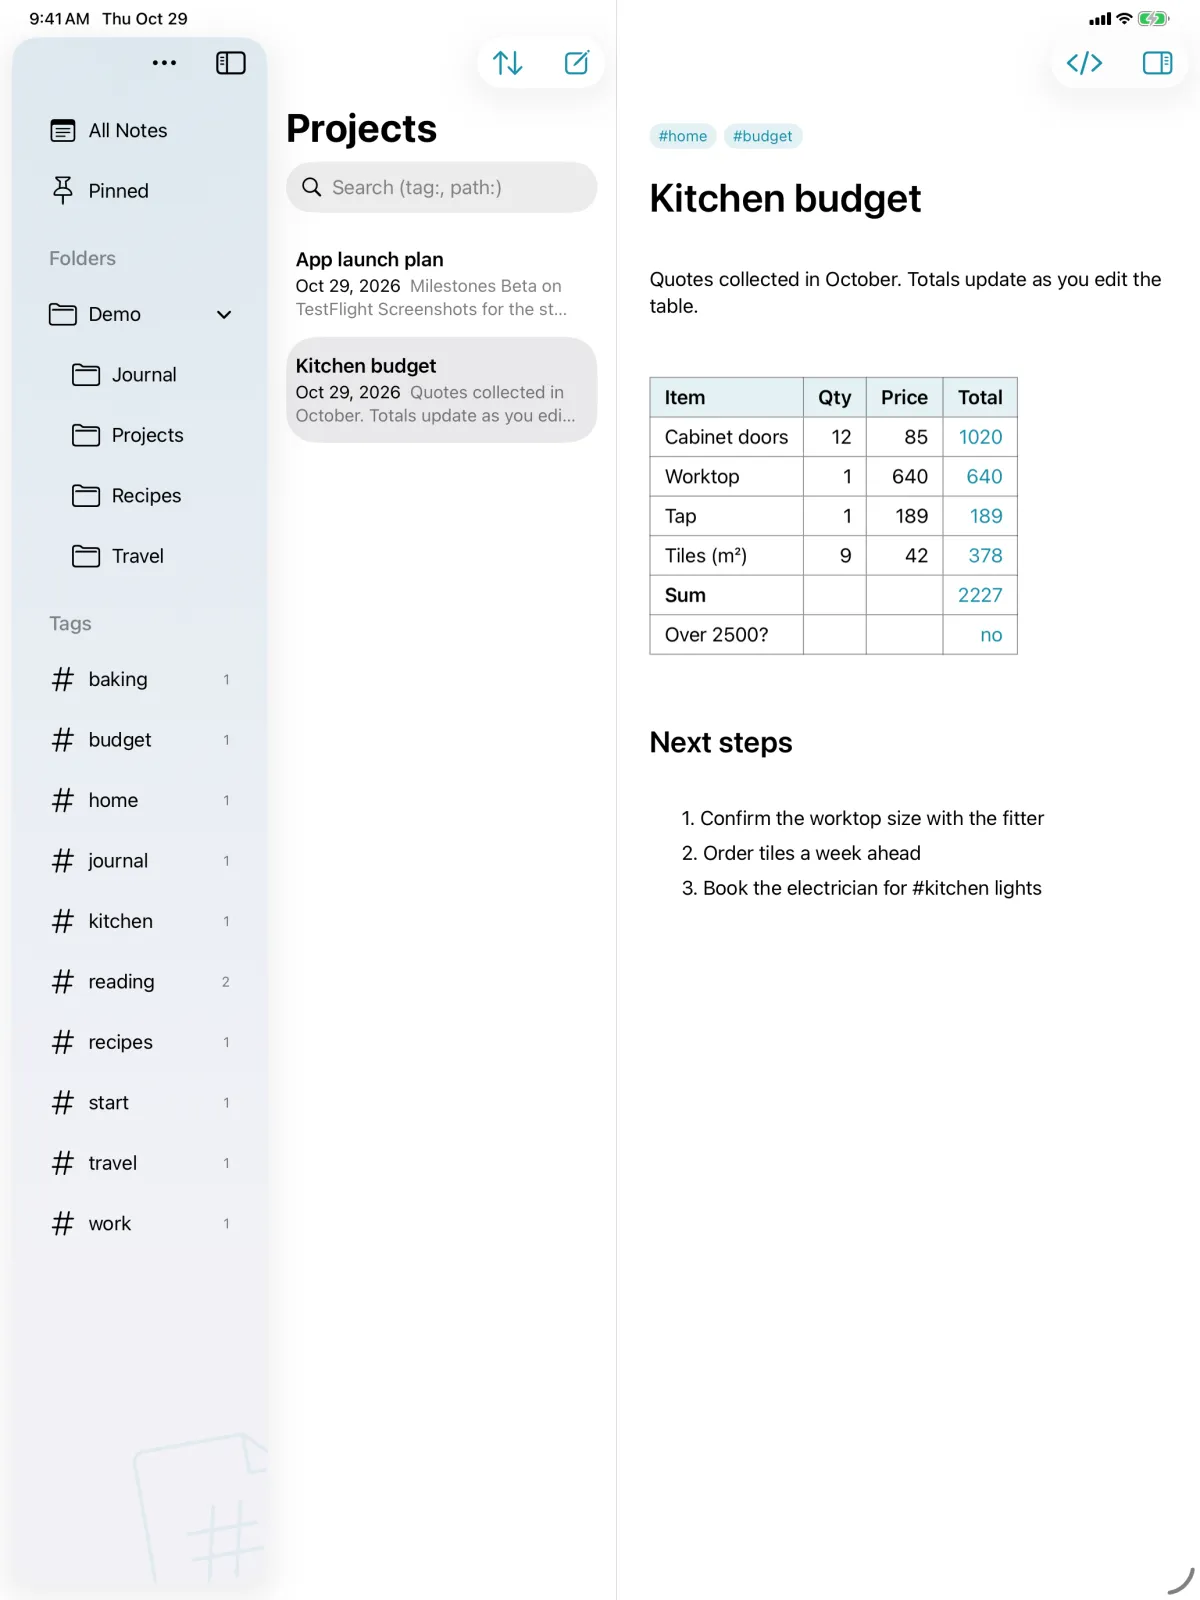
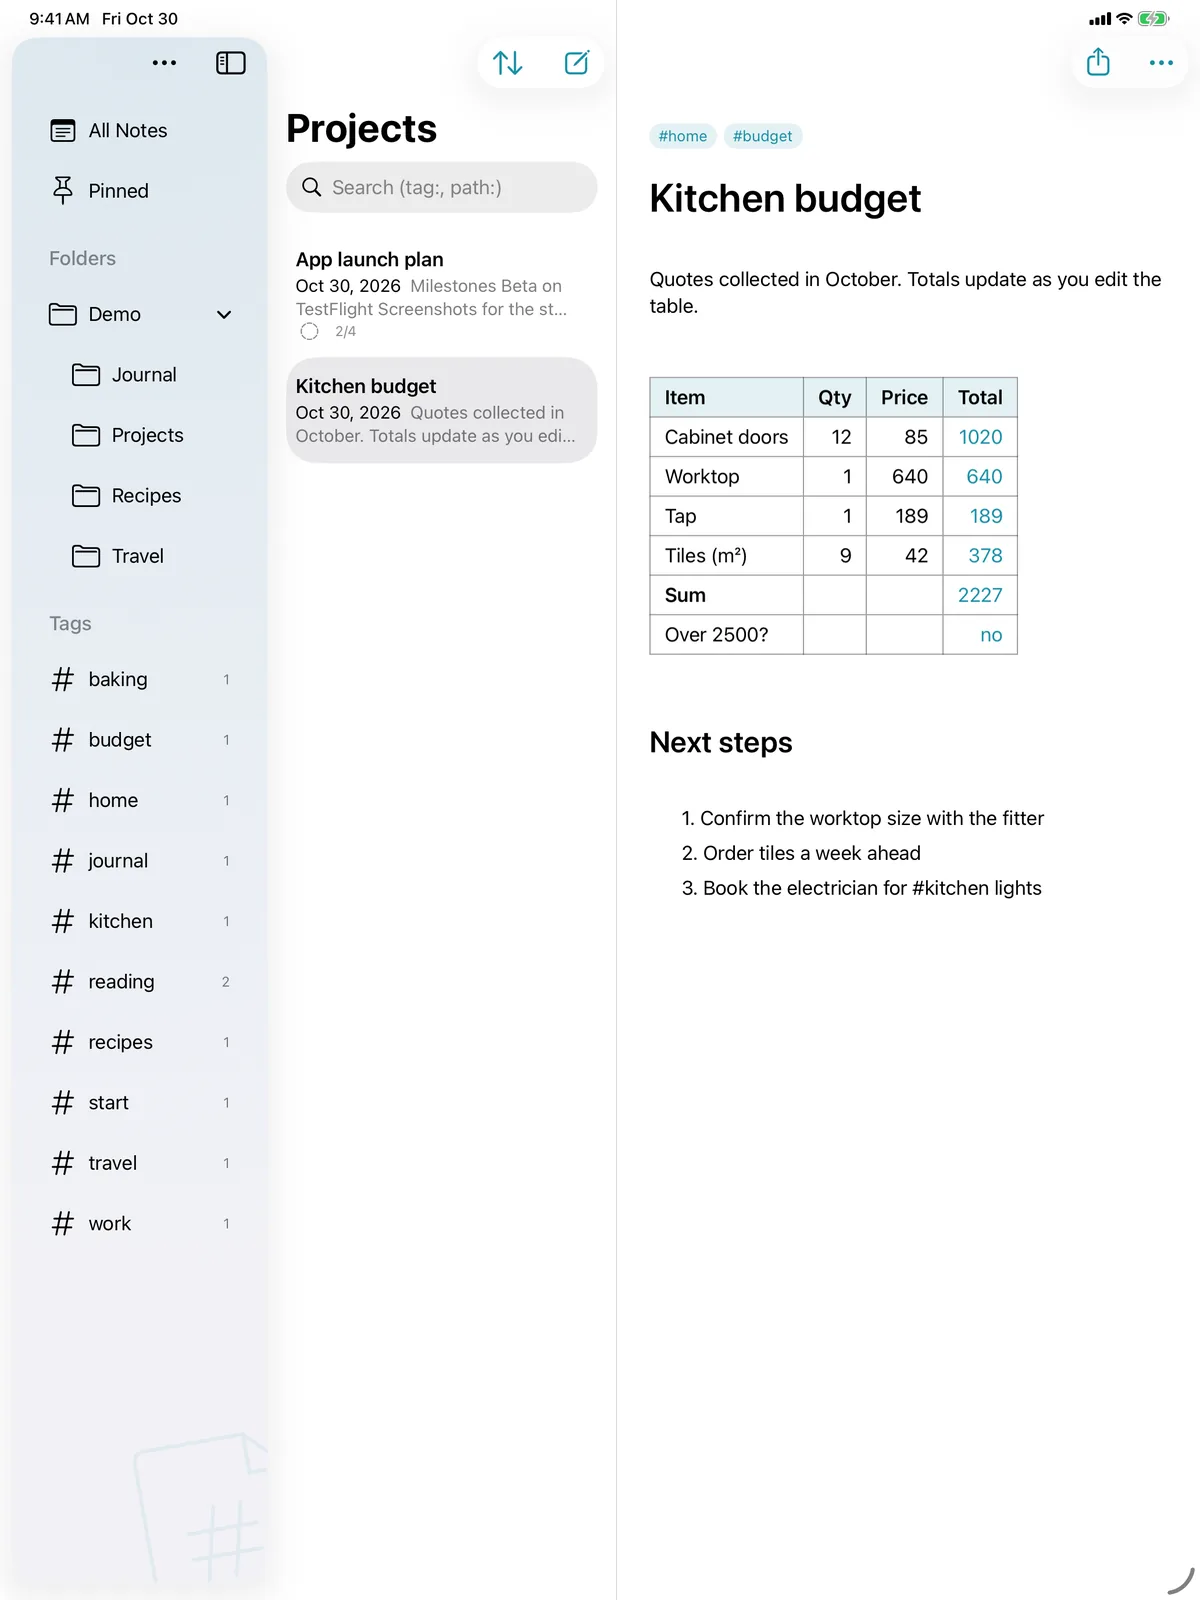
Mac Share button is a SwiftUI ShareLink (system toolbar look; the note as .md, a PDF rendered on demand, and text); fresh site screenshots from the demo notebook (real Mac window captures, iPad with all columns, themed list, Settings › Appearance and Themes); site copy for app-wide themes and the Se
Claude-Session: https://claude.ai/code/session_01V7gBduuG29KWmYZoxFoh32

diff --git a/apple/Packages/NmwUI/Sources/NmwUI/Export/NoteExport.swift b/apple/Packages/NmwUI/Sources/NmwUI/Export/NoteExport.swift
@@ -32,6 +32,7 @@ typealias ShareAnchorView = UIView
 
 @MainActor
 enum NoteExport {
+    nonisolated static let markdownType = UTType("net.daringfireball.markdown") ?? .plainText
 
     /// The whole page: theme CSS and the note's body.
     static func document(markdown: String, title: String, context: NoteContext, highlightsCode: Bool = EditorSetup.highlightsCode) -> String {
@@ -494,31 +495,20 @@ struct NoteExportCommands: Equatable {
 }
 
 #if os(macOS)
-/// A toolbar Share button that gives the sharing picker its view to anchor to.
-struct ShareToolbarButton: NSViewRepresentable {
-    var enabled: Bool
-    let action: (NSView) -> Void
+/// A note for `ShareLink`: its Markdown file first, then a PDF (rendered
+/// only if the destination wants one) and plain text.
+struct NoteShareItem: Transferable {
+    let title: String
+    let makeExporter: @MainActor @Sendable () -> NoteExporter
 
-    func makeNSView(context: Context) -> NSButton {
-        let button = NSButton(image: NSImage(systemSymbolName: "square.and.arrow.up", accessibilityDescription: "Share") ?? NSImage(),
-                              target: context.coordinator, action: #selector(Coordinator.clicked(_:)))
-        button.bezelStyle = .toolbar
-        button.isBordered = false
-        button.setAccessibilityLabel("Share")
-        return button
-    }
-
-    func updateNSView(_ button: NSButton, context: Context) {
-        button.isEnabled = enabled
-        context.coordinator.action = action
-    }
-
-    func makeCoordinator() -> Coordinator { Coordinator(action: action) }
-
-    @MainActor final class Coordinator: NSObject {
-        var action: (NSView) -> Void
-        init(action: @escaping (NSView) -> Void) { self.action = action }
-        @objc func clicked(_ sender: NSButton) { action(sender) }
+    static var transferRepresentation: some TransferRepresentation {
+        FileRepresentation(exportedContentType: NoteExport.markdownType) { item in
+            SentTransferredFile(try await item.makeExporter().markdownFile())
+        }
+        FileRepresentation(exportedContentType: .pdf) { item in
+            SentTransferredFile(try await item.makeExporter().pdfFile())
+        }
+        ProxyRepresentation { item in await MarkdownPlainText.text(of: item.makeExporter().markdown) }
     }
 }
 #endif

diff --git a/apple/Packages/NmwUI/Sources/NmwUI/Views/NoteEditorView.swift b/apple/Packages/NmwUI/Sources/NmwUI/Views/NoteEditorView.swift
@@ -153,8 +153,12 @@ struct NoteEditorView: View {
                     .help("Outline and Backlinks (⌥⌘I)")
             }
             ToolbarItem {
-                ShareToolbarButton(enabled: model.isLoaded) { anchor in share(anchor: anchor) }
-                    .help("Share")
+                ShareLink(item: NoteShareItem(title: shareTitle, makeExporter: { makeExporter() }),
+                          preview: SharePreview(shareTitle)) {
+                    Label("Share", systemImage: "square.and.arrow.up")
+                }
+                .disabled(!model.isLoaded)
+                .help("Share")
             }
             #endif
         }
@@ -186,10 +190,12 @@ struct NoteEditorView: View {
 
     // MARK: Print, PDF, Share
 
+    private var shareTitle: String {
+        NoteMetadata(markdown: model.text, fileName: model.url.deletingPathExtension().lastPathComponent).title
+    }
+
     private func makeExporter() -> NoteExporter {
-        let fileName = model.url.deletingPathExtension().lastPathComponent
-        let title = NoteMetadata(markdown: model.text, fileName: fileName).title
-        return NoteExporter(markdown: model.text, title: title, context: context)
+        NoteExporter(markdown: model.text, title: shareTitle, context: context)
     }
 
     private func share(anchor: ShareAnchorView? = nil) {

diff --git a/apple/Packages/NmwUI/Sources/NmwUI/Views/NotebookView.swift b/apple/Packages/NmwUI/Sources/NmwUI/Views/NotebookView.swift
@@ -73,7 +73,11 @@ struct NotebookView: View {
 
     private static var launchColumnVisibility: NavigationSplitViewVisibility {
         #if DEBUG
-        if UserDefaults.standard.string(forKey: "NmwColumnVisibility") == "doubleColumn" { return .doubleColumn }
+        switch UserDefaults.standard.string(forKey: "NmwColumnVisibility") {
+        case "doubleColumn": return .doubleColumn
+        case "all": return .all
+        default: break
+        }
         #endif
         return .automatic
     }

diff --git a/docs/index.md b/docs/index.md
@@ -73,17 +73,18 @@ Tables are an editable grid: add rows and columns from the markers on the edges,
 
 ## Make it yours
 
-Seven themes for the editor, source view and code — from the teal default to a serif Paper — in light and dark, plus your own as JSON files. The sidebar can follow the system or wear the icon's colours.
+Seven themes, from the teal default to a serif Paper. Each one colors the whole app: the note page, the note list, the sidebar and the accent, in light and dark. Install new themes by opening a `.nmwtheme` file, or make your own from a JSON file.
 
 [Themes and appearance →](/guide/themes)
 
 </div>
-<img class="nmw-shot" src="/screenshots/ipad-paper.webp" alt="iPad: the Paper theme with a serif recipe note and the teal My Way sidebar" />
+<img class="nmw-shot" src="/screenshots/ipad-paper.webp" alt="iPad: the Paper theme on the sidebar, the note list and a serif recipe note" />
 </div>
 
 <div class="nmw-phones">
   <img src="/screenshots/iphone-sidebar.webp" alt="iPhone: notebook sidebar with folders and tags" />
   <img src="/screenshots/iphone-note.webp" alt="iPhone: a recipe note with a photo and an ingredients table" />
+  <img src="/screenshots/iphone-paper-list.webp" alt="iPhone: the note list in the Paper theme" />
   <img src="/screenshots/iphone-note-dark.webp" alt="iPhone in dark mode: a travel note" />
 </div>
 

diff --git a/docs/guide/settings.md b/docs/guide/settings.md
@@ -2,18 +2,29 @@
 
 **Settings** opens with **⌘,** on the Mac. On iPhone and iPad, tap the gear at the top of the sidebar, or **Settings…** in the notebook menu.
 
-## General
+Settings has four tabs on the Mac, and the same four pages on iPhone and iPad. The first three apply to the app on this device.
 
-Applies to the app on this device.
+## General
 
 | Setting | Options |
 | --- | --- |
-| Appearance | System, Light, Dark |
-| Sidebar | System Default, My Way |
 | Notes open as | Formatted, Markdown Source |
-| Theme | the editor's [theme](/guide/themes), font, text size and line spacing |
-| Markdown source theme | the same as the editor, or another theme |
+| Move checked items to the bottom | off |
 | Markdown files (Mac) | which app opens `.md` files, and a button to make it Notes my Way |
+
+## Appearance
+
+| Setting | Options |
+| --- | --- |
+| Theme | the [theme](/guide/themes), which colors the whole app |
+| Appearance | System, Light, Dark (fixed by themes made for one mode) |
+| Sidebar | System Default, My Way |
+| Font, Text size, Line spacing | the editor's text |
+| Markdown source | the same theme as the editor, or another one |
+
+## Themes
+
+Installed themes, with **Install Theme…**, **Duplicate**, **Share** and **Delete**. See [Installing themes](/guide/themes#installing-themes).
 
 ## Notebook
 

diff --git a/docs/guide/themes.md b/docs/guide/themes.md
@@ -1,10 +1,16 @@
 # Themes and appearance
 
 <div class="nmw-shot">
-  <img src="/screenshots/ipad-paper.webp" alt="iPad: the Paper theme with a serif note and the My Way sidebar" />
+  <img src="/screenshots/mac-paper.webp" alt="Mac: the Paper theme on the sidebar, the note list and a serif recipe note" />
 </div>
 
 ## Look
+
+<div class="nmw-shot-row">
+  <img src="/screenshots/iphone-paper-list.webp" alt="iPhone: the note list in the Paper theme" />
+  <img src="/screenshots/iphone-appearance.webp" alt="iPhone: Settings › Appearance with the theme, appearance and sidebar" />
+  <img src="/screenshots/iphone-themes.webp" alt="iPhone: Settings › Themes with an installed theme and Install Theme…" />
+</div>
 
 **Settings › Appearance** has:
 

diff --git a/docs/guide/tables.md b/docs/guide/tables.md
@@ -4,6 +4,10 @@
   <img src="/screenshots/ipad-budget.webp" alt="iPad: a kitchen budget table with quantities, prices and computed totals" />
 </div>
 
+<div class="nmw-shot">
+  <img src="/screenshots/mac-budget.webp" alt="Mac: the same kitchen budget table" />
+</div>
+
 ## Editing tables
 
 GFM tables render as a grid you can type into. Click a cell to edit it; **Tab** and **Shift-Tab** move between cells, **Return** moves down, and both add a row when you go past the last one. The arrow keys leave the grid above or below it. Right-click a cell for the table commands, including **Edit as Markdown**, which shows the table's source while the caret is in it.

diff --git a/docs/guide/index.md b/docs/guide/index.md
@@ -28,6 +28,10 @@ On iPhone the three appear one after another; on iPad and Mac side by side.
   <img src="/screenshots/ipad-lisbon-light.webp" alt="iPad: sidebar, note list and a note side by side" />
 </div>
 
+<div class="nmw-shot">
+  <img src="/screenshots/mac-dark.webp" alt="Mac in dark mode: sidebar, note list and a note about Lisbon" />
+</div>
+
 ## Your first note
 
 Press **⌘N** on the Mac, or tap the compose button. The note is created in the selected folder as `Untitled.md`; its first `# heading` becomes its title in the list. Notes save themselves half a second after you stop typing.
